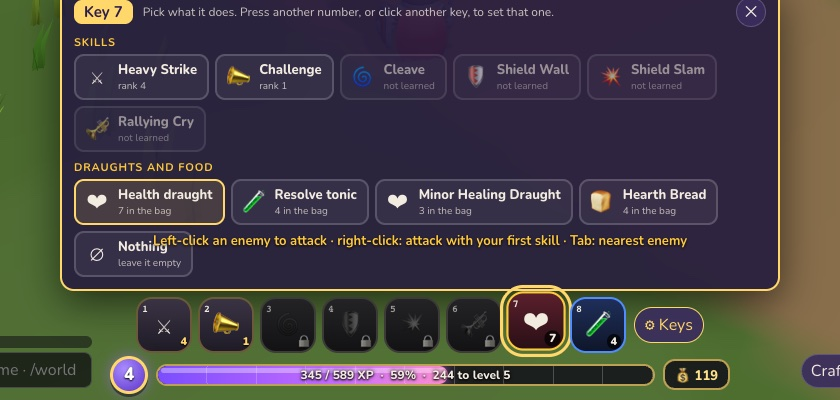
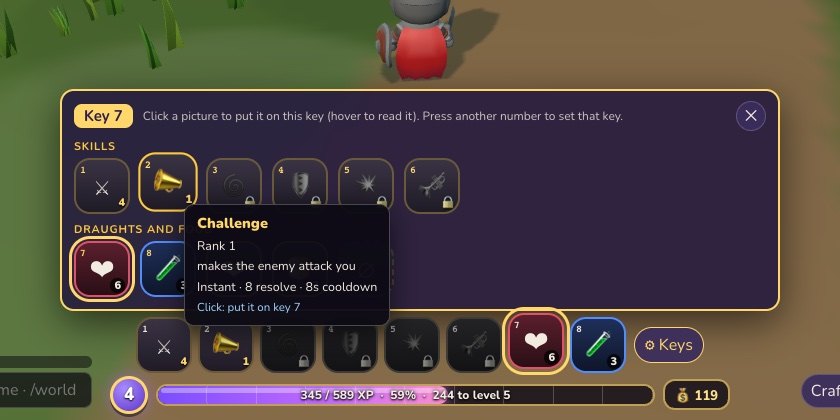
Hearthvale: the key picker shows pictures only, with details on hover
Skills, draughts and food in the picker are icon tiles marked with the key
they are on; hovering one gives its name, rank, effect, cost and cooldown.
Hotbar keys use the same tooltip instead of the browser's.

diff --git a/src/mmo/MmoGame.js b/src/mmo/MmoGame.js
@@ -951,34 +951,54 @@ export class MmoGame {
     if (i == null) return;
     const cls = CLASSES[this.ch.cls];
     const now = this.ch.bars?.[i] ?? null;
-    box.innerHTML = `<header><b>Key ${i + 1}</b><span>Pick what it does. Press another number, or click another key, to set that one.</span><button type="button" class="hv__x" data-picker-close aria-label="Close">✕</button></header><div class="hv-picker__groups"></div>`;
+    box.innerHTML = `<header><b>Key ${i + 1}</b><span>Click a picture to put it on this key (hover to read it). Press another number to set that key.</span><button type="button" class="hv__x" data-picker-close aria-label="Close">✕</button></header><div class="hv-picker__groups"></div>`;
     box.querySelector('[data-picker-close]').addEventListener('click', () => this._pickKey(i));
     const groups = box.querySelector('.hv-picker__groups');
+    const bars = this.ch.bars ?? [];
+    /** A row of pictures: hover one for its words, click to put it on the key. */
     const group = (title, options) => {
       const g = el('section');
       g.append(el('h4', null, title));
       const row = el('div', 'hv-picker__row');
       for (const o of options) {
-        const b = el('button', `hv-pick ${now === o.value ? 'is-on' : ''} ${o.dim ? 'is-dim' : ''}`);
+        const b = el('button', `hv-slot hv-pick ${o.cls ?? ''} ${now === o.value ? 'is-on' : ''} ${o.dim ? 'is-dim' : ''}`);
         b.type = 'button';
         b.dataset.pick = o.value ?? '';
-        b.title = o.tip ?? o.name;
-        b.innerHTML = `<span class="hv-pick__icon">${o.icon}</span><span class="hv-pick__name"></span>${o.note ? `<small>${esc(o.note)}</small>` : ''}`;
-        b.querySelector('.hv-pick__name').textContent = o.name;
+        b.setAttribute('aria-label', o.name);
+        if (o.item) {
+          b.dataset.tip = o.item;
+          b.dataset.tipHint = `${o.note}\n› Click: put it on key ${i + 1}`;
+        } else {
+          b.dataset.tipTitle = o.name;
+          b.dataset.tipText = `${o.text}\n› Click: put it on key ${i + 1}`;
+        }
+        const on = o.value ? bars.indexOf(o.value) : -1;
+        b.innerHTML = `<span class="hv-slot__icon">${o.icon}</span>${on >= 0 ? `<kbd>${on + 1}</kbd>` : ''}${o.corner ?? ''}`;
         b.addEventListener('click', () => this._setKey(i, o.value));
         row.append(b);
       }
       g.append(row);
       groups.append(g);
     };
-    group('Skills', cls.skills.map((k) => ({ value: k.id, icon: k.icon, name: k.name, dim: !rankOf(this.ch, k.id), note: rankOf(this.ch, k.id) ? `rank ${rankOf(this.ch, k.id)}` : 'not learned', tip: `${k.name} — ${this._skillText(k, Math.max(1, rankOf(this.ch, k.id)))}` })));
+    group('Skills', cls.skills.map((k) => {
+      const rank = rankOf(this.ch, k.id);
+      const mod = skillMods(this.ch, k.id);
+      const cost = Math.round(k.cost * (this.st?.costMult ?? 1) * (1 - mod.cost));
+      const cd = k.cd ? Math.round(k.cd * (this.st?.cdMult ?? 1) * (1 - mod.cd) * 10) / 10 : 0;
+      return {
+        value: k.id, icon: k.icon, name: k.name, dim: !rank,
+        corner: rank ? `<span class="hv-slot__rank">${rank}</span>` : '<span class="hv-slot__lock">🔒</span>',
+        text: `${rank ? `Rank ${rank}` : this.ch.level < k.level ? `Not learned — can be learned at level ${k.level}` : 'Not learned — open the skill tree (T)'}\n${this._skillText(k, Math.max(1, rank))}\n${k.cast ? `${k.cast}s cast` : 'Instant'} · ${cost} ${cls.resource.toLowerCase()}${cd ? ` · ${cd}s cooldown` : ''}`
+      };
+    }));
     const count = (kind) => this._barCount({ kind: 'potion', what: kind });
     const food = [...new Set(this.ch.bag.filter((x) => x && ITEMS[x.item]?.use).map((x) => x.item))];
+    const n = (id) => this.ch.bag.reduce((sum, x) => sum + (x?.item === id ? x.n : 0), 0);
     group('Draughts and food', [
-      { value: 'potion:health', icon: '❤', name: 'Health draught', note: `${count('health')} in the bag`, dim: !count('health'), tip: 'Drinks the healing draught that best fits what you are missing' },
-      { value: 'potion:mana', icon: '🧪', name: `${cls.resource} tonic`, note: `${count('mana')} in the bag`, dim: !count('mana'), tip: 'Drinks the tonic that best fits what you are missing' },
-      ...food.map((id) => ({ value: `item:${id}`, icon: ICON(id), name: ITEMS[id].name, note: `${this.ch.bag.reduce((n, x) => n + (x?.item === id ? x.n : 0), 0)} in the bag`, tip: itemTip(id) })),
-      { value: null, icon: '∅', name: 'Nothing', note: 'leave it empty' }
+      { value: 'potion:health', cls: 'hv-slot--potion hv-slot--health', icon: '❤', name: 'Health draught', dim: !count('health'), corner: `<span class="hv-slot__count">${count('health')}</span>`, text: `Drinks whichever healing draught in your bag best fits what you are missing.\n${count('health')} in the bag` },
+      { value: 'potion:mana', cls: 'hv-slot--potion hv-slot--mana', icon: '🧪', name: `${cls.resource} tonic`, dim: !count('mana'), corner: `<span class="hv-slot__count">${count('mana')}</span>`, text: `Drinks whichever tonic in your bag best fits what you are missing.\n${count('mana')} in the bag` },
+      ...food.map((id) => ({ value: `item:${id}`, cls: 'hv-slot--potion hv-slot--food', icon: ICON(id), name: ITEMS[id].name, item: id, note: `${n(id)} in the bag — this key uses only this one`, corner: `<span class="hv-slot__count">${n(id)}</span>` })),
+      { value: null, cls: 'is-empty', icon: '∅', name: 'Nothing', text: 'Leave this key empty.' }
     ]);
   }
 
@@ -1130,7 +1150,9 @@ export class MmoGame {
       tip.style.top = `${y}px`;
     };
     const show = (target, e) => {
-      const html = target.dataset.tip ? this._tipHtml(target.dataset.tip, target.dataset.tipHint) : `<p>${esc(target.dataset.tipText)}</p>`;
+      // An item's words, or a title with lines under it (a skill, a draught key, an empty slot).
+      const html = target.dataset.tip ? this._tipHtml(target.dataset.tip, target.dataset.tipHint)
+        : `${target.dataset.tipTitle ? `<h5 style="color:${target.dataset.tipColor ?? '#ffd76a'}">${esc(target.dataset.tipTitle)}</h5>` : ''}${String(target.dataset.tipText ?? '').split('\n').filter(Boolean).map((l) => `<p class="${l.startsWith('›') ? 'hv-tip__hint' : ''}">${esc(l.replace(/^› /, ''))}</p>`).join('')}`;
       if (!html) return;
       tip.innerHTML = html;
       tip.hidden = false;
@@ -1138,12 +1160,12 @@ export class MmoGame {
       place(e);
     };
     this.root.addEventListener('mouseover', (e) => {
-      const target = e.target.closest?.('[data-tip], [data-tip-text]');
+      const target = e.target.closest?.('[data-tip], [data-tip-text], [data-tip-title]');
       if (target && target !== this._tipFor) show(target, e);
     });
     this.root.addEventListener('mousemove', (e) => {
       if (!this._tipFor) return;
-      if (!this._tipFor.isConnected || !e.target.closest?.('[data-tip], [data-tip-text]')) {
+      if (!this._tipFor.isConnected || !e.target.closest?.('[data-tip], [data-tip-text], [data-tip-title]')) {
         this._tipFor = null;
         tip.hidden = true;
       } else place(e);
@@ -1154,7 +1176,7 @@ export class MmoGame {
     });
     // The keyboard gets it too: focus shows the words beside the picture.
     this.root.addEventListener('focusin', (e) => {
-      const target = e.target.closest?.('[data-tip]');
+      const target = e.target.closest?.('[data-tip], [data-tip-title]');
       if (!target || !target.matches(':focus-visible')) return;
       const r = target.getBoundingClientRect();
       show(target, { clientX: r.right, clientY: r.top });
@@ -1460,7 +1482,8 @@ export class MmoGame {
       let corner = '';
       if (!e) {
         b.classList.add('is-empty');
-        b.title = `Key ${i + 1} is empty — right-click to choose what it does`;
+        b.dataset.tipTitle = `Key ${i + 1}`;
+        b.dataset.tipText = 'Empty.\n› Right-click: choose what it does';
       } else if (e.kind === 'skill') {
         const s = e.def;
         const rank = rankOf(this.ch, s.id);
@@ -1468,7 +1491,9 @@ export class MmoGame {
         const cost = Math.round(s.cost * (this.st?.costMult ?? 1) * (1 - mod.cost));
         const cd = s.cd ? Math.round(s.cd * (this.st?.cdMult ?? 1) * (1 - mod.cd) * 10) / 10 : 0;
         b.dataset.skill = s.id;
-        b.title = `${s.name} (${i + 1})${rank ? ` · rank ${rank}` : ''} — ${s.cast ? `${s.cast}s cast` : 'instant'}, ${cost} ${cls.resource.toLowerCase()}${cd ? `, ${cd}s cooldown` : ''}${rank ? '' : this.ch.level < s.level ? ` · can be learned at level ${s.level}` : ' · not learned: open the skill tree (T)'}\nRight-click: change this key`;
+        b.dataset.tipTitle = s.name;
+        b.dataset.tipText = `${rank ? `Rank ${rank}` : this.ch.level < s.level ? `Not learned — can be learned at level ${s.level}` : 'Not learned — open the skill tree (T)'}\n${this._skillText(s, Math.max(1, rank))}\n${s.cast ? `${s.cast}s cast` : 'Instant'} · ${cost} ${cls.resource.toLowerCase()}${cd ? ` · ${cd}s cooldown` : ''}\n› Key ${i + 1} · right-click: change this key`;
+        b.setAttribute('aria-label', `${s.name}, key ${i + 1}`);
         b.classList.toggle('is-locked', !rank);
         icon = s.icon;
         corner = rank ? `<span class="hv-slot__rank">${rank}</span>` : '<span class="hv-slot__lock">🔒</span>';
@@ -1477,7 +1502,11 @@ export class MmoGame {
         b.dataset.potion = e.kind === 'potion' ? e.what : e.id;
         b.classList.add('hv-slot--potion', e.kind === 'potion' ? `hv-slot--${e.what}` : 'hv-slot--food');
         b.classList.toggle('is-none', !n);
-        b.title = `${e.kind === 'potion' ? (e.what === 'mana' ? `${cls.resource} tonic` : 'Health draught') : ITEMS[e.id].name} (${i + 1}) — ${n} in the bag${e.kind === 'potion' ? '; drinks the one that fits best' : ''}\nRight-click: change this key`;
+        const label = e.kind === 'potion' ? (e.what === 'mana' ? `${cls.resource} tonic` : 'Health draught') : ITEMS[e.id].name;
+        b.dataset.tipTitle = label;
+        b.dataset.tipColor = e.kind === 'potion' && e.what === 'mana' ? '#7fb0ff' : e.kind === 'potion' ? '#ff8fa3' : '#ffd76a';
+        b.dataset.tipText = `${n} in the bag${e.kind === 'potion' ? '\nDrinks the one that best fits what you are missing.' : ''}\n› Key ${i + 1} · right-click: change this key`;
+        b.setAttribute('aria-label', `${label}, key ${i + 1}, ${n} left`);
         icon = e.kind === 'potion' ? (e.what === 'mana' ? '🧪' : '❤') : ICON(e.id);
         corner = `<span class="hv-slot__count">${n}</span>`;
       }

diff --git a/src/mmo/mmo.css b/src/mmo/mmo.css
@@ -1997,43 +1997,34 @@
   flex-wrap: wrap;
   gap: 6px;
 }
-.hv-pick {
-  display: grid;
-  grid-template-columns: 30px auto;
-  grid-template-rows: auto auto;
-  column-gap: 6px;
-  align-items: center;
-  padding: 5px 10px 5px 6px;
-  border-radius: 10px;
-  border: 2px solid var(--hv-line);
-  background: rgba(255, 255, 255, 0.05);
+.hv-picker__row {
+  gap: 10px;
+}
+.hv-picker .hv-pick {
+  flex: none;
+  cursor: pointer;
   color: inherit;
   font: inherit;
-  text-align: left;
-  cursor: pointer;
+  padding: 0;
+  display: grid;
+  place-items: center;
 }
-.hv-pick:hover {
+.hv-picker .hv-pick:hover {
+  transform: translateY(-3px);
   border-color: #2fd3a0;
 }
-.hv-pick.is-on {
-  border-color: #ffd76a;
-  background: rgba(255, 215, 106, 0.14);
+.hv-picker .hv-pick.is-on {
+  outline: 3px solid #ffd76a;
+  outline-offset: 2px;
 }
-.hv-pick.is-dim {
-  opacity: 0.55;
+.hv-picker .hv-pick.is-dim .hv-slot__icon {
+  filter: grayscale(1) brightness(0.55);
 }
-.hv-pick__icon {
-  grid-row: 1 / 3;
-  font-size: 22px;
-  text-align: center;
-}
-.hv-pick__name {
-  font-size: 13px;
-  font-weight: 800;
-}
-.hv-pick small {
-  font-size: 10px;
-  opacity: 0.75;
+.hv-picker .hv-pick kbd {
+  position: absolute;
+  top: 2px;
+  left: 4px;
+  color: #ffd76a;
 }
 
 /* ---- pictures only; the words come on hover ---- */

diff --git a/docs/hearthvale.md b/docs/hearthvale.md
@@ -45,7 +45,7 @@ are the KayKit Adventurers and Skeletons (CC0, Kay Lousberg) from the asset libr
 </p>
 
 <p>
-  <img src="screenshots/hearthvale-keys.jpg" width="100%" alt="The hotbar's key picker open on key 7: the class's skills (the unlearned ones dimmed), then Health draught, Resolve tonic, Minor Healing Draught and Hearth Bread with how many are in the bag, and Nothing; below, keys 1 to 8 with the health draught on 7 and a tonic on 8, each showing a count" />
+  <img src="screenshots/hearthvale-keys.jpg" width="100%" alt="The key picker open on key 7, pictures only: a row of the class's six skills (each with its rank or a lock, and the number of the key it is on) and a row of draughts and food with how many are left; a tooltip on Challenge gives its rank, what it does, its cost and cooldown, and Click: put it on key 7. Below, keys 1 to 8" />
 </p>
 
 <p>
@@ -142,7 +142,8 @@ are the KayKit Adventurers and Skeletons (CC0, Kay Lousberg) from the asset libr
   In a store, click a picture to pick it; Buy, ×5 and Buy & wear are under the shelf.
 - **Keys 1–8, yours to set.** The hotbar has eight keys: your six skills on 1–6, a **health
   draught on 7** and a **tonic on 8** to start with. **Right-click a key** (or press **⚙ Keys**, then
-  a number) for a picker with every skill, the two draughts and whatever food is in your bag; what
+  a number) for a picker of **pictures** — every skill, the two draughts and whatever food is in your
+  bag, each marked with the key it is on now; hover one to read it, click to put it on the key. What
   you pick trades places with what was there, and the server keeps your keys with the character. A
   draught key drinks **the one in your bag that fits what you are missing** (a minor one for a
   scratch, a greater one for a wound), shows how many you carry, and **glows when you are low**.
